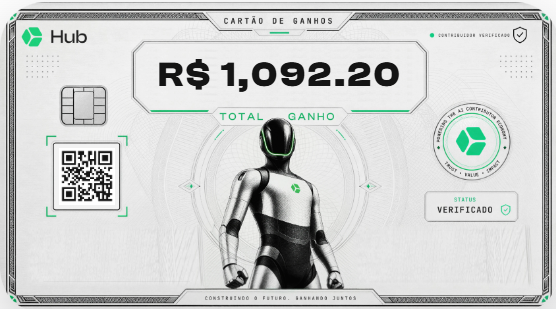
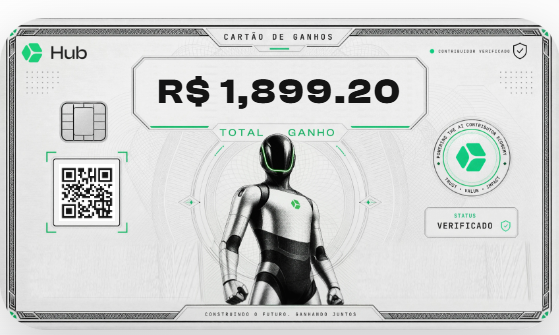
feat: links de referral no comparativo e cartao de ganhos novo
Comparativo rapido:
- KGeN e Rwazi saem da tabela. Nao tinham card de review nem link de
  cadastro, entao a linha nao levava o leitor a lugar nenhum.
- O nome de cada plataforma passa a ser o link de referral, em nova
  aba com rel="noopener sponsored", no lugar da ancora para o card.
  Nomes ganham sublinhado para ler como link.
- Subtitulo e CSS das linhas removidas atualizados.
- Regra 6 citava KGeN, que nao existe mais no site; agora aponta para
  Crowtado, Flambra e Mimix AI.

Cartao de ganhos do hero trocado por um de R$ 1.899,20. As dimensoes
no HTML passam de 553x311 para 559x335, as reais do arquivo novo, para
o navegador reservar a caixa certa e nao dar salto no carregamento. Alt
text atualizado nos tres idiomas.

Claude-Session: https://claude.ai/code/session_01HpaRY2sD6kgKNVgTbhFd8V

diff --git a/es/index.html b/es/index.html
@@ -256,7 +256,7 @@
 
         <div class="hero-right">
           <figure class="hero-proof">
-            <img src="/images/cartao-ganhos.png" width="553" height="311" alt="Tarjeta de ganancias de Hub que muestra R$ 1.092,20 de total ganado con estado verificado" loading="eager" decoding="async">
+            <img src="/images/cartao-ganhos.png" width="559" height="335" alt="Tarjeta de ganancias de Hub que muestra R$ 1.899,20 de total ganado con estado verificado" loading="eager" decoding="async">
             <figcaption>Tarjeta de ganancias de un colaborador verificado de Hub.</figcaption>
           </figure>
           <div class="hero-card">
@@ -356,13 +356,13 @@
       <div class="cmp-card">
         <div class="cmp-head">
           <div class="cmp-title">Comparativo rápido</div>
-          <p class="cmp-sub">Cinco plataformas con review completo aquí abajo, más dos listadas solo para comparar.</p>
+          <p class="cmp-sub">Las cinco plataformas del sitio, una al lado de la otra. Haz clic en el nombre para registrarte — el review completo de cada una está justo abajo.</p>
         </div>
         <table class="cmp-table">
           <thead><tr><th>Plataforma</th><th>Pago</th><th>Retiro mín.</th><th>Revisión</th><th>Tipo</th><th>Enfoque</th></tr></thead>
           <tbody>
             <tr class="is-top">
-              <th scope="row" data-lbl="Plataforma"><a href="#plat-claru">Claru AI</a><span class="cmp-pill">MÁS RENTABLE</span></th>
+              <th scope="row" data-lbl="Plataforma"><a href="https://app.claru.ai/signup?ref=tebtn9za" target="_blank" rel="noopener sponsored">Claru AI</a><span class="cmp-pill">MÁS RENTABLE</span></th>
               <td data-lbl="Pago">$6/h + bonos</td>
               <td data-lbl="Retiro mín.">$50</td>
               <td data-lbl="Revisión">48h</td>
@@ -370,7 +370,7 @@
               <td data-lbl="Enfoque">Global (LATAM)</td>
             </tr>
             <tr>
-              <th scope="row" data-lbl="Plataforma"><a href="#plat-hub">Hub</a></th>
+              <th scope="row" data-lbl="Plataforma"><a href="https://ai.hub.xyz/r/RG4WW24V" target="_blank" rel="noopener sponsored">Hub</a></th>
               <td data-lbl="Pago">$5–6/h + bonos</td>
               <td data-lbl="Retiro mín.">≈ $5</td>
               <td data-lbl="Revisión">1 a 2 días</td>
@@ -378,7 +378,7 @@
               <td data-lbl="Enfoque">Global</td>
             </tr>
             <tr>
-              <th scope="row" data-lbl="Plataforma"><a href="#plat-crowtado">Crowtado</a></th>
+              <th scope="row" data-lbl="Plataforma"><a href="https://www.crowtado.com/sign-up?ref=33HYXCME" target="_blank" rel="noopener sponsored">Crowtado</a></th>
               <td data-lbl="Pago">Hasta $6,50/h</td>
               <td data-lbl="Retiro mín.">$10</td>
               <td data-lbl="Revisión">Por horas</td>
@@ -386,7 +386,7 @@
               <td data-lbl="Enfoque">42 países</td>
             </tr>
             <tr>
-              <th scope="row" data-lbl="Plataforma"><a href="#plat-flambra">Flambra</a></th>
+              <th scope="row" data-lbl="Plataforma"><a href="https://app.flambra.com/?ref=0C173A0A7A" target="_blank" rel="noopener sponsored">Flambra</a></th>
               <td data-lbl="Pago">$5/h</td>
               <td data-lbl="Retiro mín.">Varía</td>
               <td data-lbl="Revisión">Varía</td>
@@ -394,28 +394,12 @@
               <td data-lbl="Enfoque">Brasil y LATAM</td>
             </tr>
             <tr>
-              <th scope="row" data-lbl="Plataforma"><a href="#plat-mimix">Mimix AI</a></th>
+              <th scope="row" data-lbl="Plataforma"><a href="https://mimix-ai.xyz/register?ref=MIMIX61641A042288493C" target="_blank" rel="noopener sponsored">Mimix AI</a></th>
               <td data-lbl="Pago">$5/h + bonos</td>
               <td data-lbl="Retiro mín.">En USDT</td>
               <td data-lbl="Revisión">Varía</td>
               <td data-lbl="Tipo">POV y Web3</td>
               <td data-lbl="Enfoque">Global (USDT)</td>
-            </tr>
-            <tr class="is-muted">
-              <th scope="row" data-lbl="Plataforma">KGeN<span class="cmp-pill pill-off">sin review</span></th>
-              <td data-lbl="Pago">$4/h</td>
-              <td data-lbl="Retiro mín.">Varía</td>
-              <td data-lbl="Revisión">Varía</td>
-              <td data-lbl="Tipo">POV y datos</td>
-              <td data-lbl="Enfoque">60+ países</td>
-            </tr>
-            <tr class="is-muted">
-              <th scope="row" data-lbl="Plataforma">Rwazi<span class="cmp-pill pill-off">sin review</span></th>
-              <td data-lbl="Pago">$5/h</td>
-              <td data-lbl="Retiro mín.">4 horas</td>
-              <td data-lbl="Revisión">Varía</td>
-              <td data-lbl="Tipo">Fotos, videos y datos</td>
-              <td data-lbl="Enfoque">190+ países</td>
             </tr>
           </tbody>
         </table>
@@ -1101,7 +1085,7 @@
         <li class="rule">
           <div class="rule-num">5</div>
           <div class="rule-title">Diversificación inteligente</div>
-          <p class="rule-body">¿Una plataforma sin tareas disponibles? Salta de inmediato a otra — Crowtado, KGeN, Flambra. Esperar a que aparezca una tarea es tiempo que no se convierte en dinero.</p>
+          <p class="rule-body">¿Una plataforma sin tareas disponibles? Salta de inmediato a otra — Crowtado, Flambra, Mimix AI. Esperar a que aparezca una tarea es tiempo que no se convierte en dinero.</p>
         </li>
         <li class="rule">
           <div class="rule-num">6</div>

diff --git a/index.html b/index.html
@@ -266,7 +266,7 @@
 
         <div class="hero-right">
           <figure class="hero-proof">
-            <img src="/images/cartao-ganhos.png" width="553" height="311" alt="Cartão de ganhos da Hub mostrando R$ 1.092,20 de total ganho com status verificado" loading="eager" decoding="async">
+            <img src="/images/cartao-ganhos.png" width="559" height="335" alt="Cartão de ganhos da Hub mostrando R$ 1.899,20 de total ganho com status verificado" loading="eager" decoding="async">
             <figcaption>Cartão de ganhos de um colaborador verificado da Hub.</figcaption>
           </figure>
           <div class="hero-card">
@@ -366,13 +366,13 @@
       <div class="cmp-card">
         <div class="cmp-head">
           <div class="cmp-title">Comparativo rápido</div>
-          <p class="cmp-sub">Cinco plataformas com review completo aqui embaixo, mais duas listadas só para comparação.</p>
+          <p class="cmp-sub">As cinco plataformas do site, lado a lado. Clique no nome para se cadastrar — o review completo de cada uma está logo abaixo.</p>
         </div>
         <table class="cmp-table">
           <thead><tr><th>Plataforma</th><th>Pagamento</th><th>Saque mín.</th><th>Revisão</th><th>Tipo</th><th>Foco</th></tr></thead>
           <tbody>
             <tr class="is-top">
-              <th scope="row" data-lbl="Plataforma"><a href="#plat-claru">Claru AI</a><span class="cmp-pill">MAIS COMPENSATIVA</span></th>
+              <th scope="row" data-lbl="Plataforma"><a href="https://app.claru.ai/signup?ref=tebtn9za" target="_blank" rel="noopener sponsored">Claru AI</a><span class="cmp-pill">MAIS COMPENSATIVA</span></th>
               <td data-lbl="Pagamento">$6/h + bônus</td>
               <td data-lbl="Saque mín.">$50</td>
               <td data-lbl="Revisão">48h</td>
@@ -380,7 +380,7 @@
               <td data-lbl="Foco">Global (LATAM)</td>
             </tr>
             <tr>
-              <th scope="row" data-lbl="Plataforma"><a href="#plat-hub">Hub</a></th>
+              <th scope="row" data-lbl="Plataforma"><a href="https://ai.hub.xyz/r/RG4WW24V" target="_blank" rel="noopener sponsored">Hub</a></th>
               <td data-lbl="Pagamento">$5–6/h + bônus</td>
               <td data-lbl="Saque mín.">R$ 25</td>
               <td data-lbl="Revisão">1 a 2 dias</td>
@@ -388,7 +388,7 @@
               <td data-lbl="Foco">Global</td>
             </tr>
             <tr>
-              <th scope="row" data-lbl="Plataforma"><a href="#plat-crowtado">Crowtado</a></th>
+              <th scope="row" data-lbl="Plataforma"><a href="https://www.crowtado.com/sign-up?ref=33HYXCME" target="_blank" rel="noopener sponsored">Crowtado</a></th>
               <td data-lbl="Pagamento">Até $6,50/h</td>
               <td data-lbl="Saque mín.">$10</td>
               <td data-lbl="Revisão">Por horas</td>
@@ -396,7 +396,7 @@
               <td data-lbl="Foco">42 países</td>
             </tr>
             <tr>
-              <th scope="row" data-lbl="Plataforma"><a href="#plat-flambra">Flambra</a></th>
+              <th scope="row" data-lbl="Plataforma"><a href="https://app.flambra.com/?ref=0C173A0A7A" target="_blank" rel="noopener sponsored">Flambra</a></th>
               <td data-lbl="Pagamento">$5/h</td>
               <td data-lbl="Saque mín.">Varia</td>
               <td data-lbl="Revisão">Varia</td>
@@ -404,28 +404,12 @@
               <td data-lbl="Foco">Brasil e LATAM</td>
             </tr>
             <tr>
-              <th scope="row" data-lbl="Plataforma"><a href="#plat-mimix">Mimix AI</a></th>
+              <th scope="row" data-lbl="Plataforma"><a href="https://mimix-ai.xyz/register?ref=MIMIX61641A042288493C" target="_blank" rel="noopener sponsored">Mimix AI</a></th>
               <td data-lbl="Pagamento">$5/h + bônus</td>
               <td data-lbl="Saque mín.">Em USDT</td>
               <td data-lbl="Revisão">Varia</td>
               <td data-lbl="Tipo">POV e Web3</td>
               <td data-lbl="Foco">Global (USDT)</td>
-            </tr>
-            <tr class="is-muted">
-              <th scope="row" data-lbl="Plataforma">KGeN<span class="cmp-pill pill-off">sem review</span></th>
-              <td data-lbl="Pagamento">$4/h</td>
-              <td data-lbl="Saque mín.">Varia</td>
-              <td data-lbl="Revisão">Varia</td>
-              <td data-lbl="Tipo">POV e dados</td>
-              <td data-lbl="Foco">60+ países</td>
-            </tr>
-            <tr class="is-muted">
-              <th scope="row" data-lbl="Plataforma">Rwazi<span class="cmp-pill pill-off">sem review</span></th>
-              <td data-lbl="Pagamento">$5/h</td>
-              <td data-lbl="Saque mín.">4 horas</td>
-              <td data-lbl="Revisão">Varia</td>
-              <td data-lbl="Tipo">Fotos, vídeos e dados</td>
-              <td data-lbl="Foco">190+ países</td>
             </tr>
           </tbody>
         </table>
@@ -1111,7 +1095,7 @@
         <li class="rule">
           <div class="rule-num">5</div>
           <div class="rule-title">Diversificação inteligente</div>
-          <p class="rule-body">Plataforma sem tarefa disponível? Pule na hora para outra — Crowtado, KGeN, Flambra. Ficar esperando tarefa aparecer é tempo que não vira dinheiro.</p>
+          <p class="rule-body">Plataforma sem tarefa disponível? Pule na hora para outra — Crowtado, Flambra, Mimix AI. Ficar esperando tarefa aparecer é tempo que não vira dinheiro.</p>
         </li>
         <li class="rule">
           <div class="rule-num">6</div>

diff --git a/en/index.html b/en/index.html
@@ -255,7 +255,7 @@
 
         <div class="hero-right">
           <figure class="hero-proof">
-            <img src="/images/cartao-ganhos.png" width="553" height="311" alt="Hub earnings card showing R$ 1,092.20 total earned with verified status" loading="eager" decoding="async">
+            <img src="/images/cartao-ganhos.png" width="559" height="335" alt="Hub earnings card showing R$ 1,899.20 total earned with verified status" loading="eager" decoding="async">
             <figcaption>Earnings card from a verified Hub contributor.</figcaption>
           </figure>
           <div class="hero-card">
@@ -355,13 +355,13 @@
       <div class="cmp-card">
         <div class="cmp-head">
           <div class="cmp-title">Quick comparison</div>
-          <p class="cmp-sub">Five platforms with a full review below, plus two listed for comparison only.</p>
+          <p class="cmp-sub">The five platforms on this site, side by side. Click a name to sign up — the full review of each one is right below.</p>
         </div>
         <table class="cmp-table">
           <thead><tr><th>Platform</th><th>Pay</th><th>Min. payout</th><th>Review</th><th>Type</th><th>Focus</th></tr></thead>
           <tbody>
             <tr class="is-top">
-              <th scope="row" data-lbl="Platform"><a href="#plat-claru">Claru AI</a><span class="cmp-pill">BEST EFFECTIVE RATE</span></th>
+              <th scope="row" data-lbl="Platform"><a href="https://app.claru.ai/signup?ref=tebtn9za" target="_blank" rel="noopener sponsored">Claru AI</a><span class="cmp-pill">BEST EFFECTIVE RATE</span></th>
               <td data-lbl="Pay">$6/hr + bonuses</td>
               <td data-lbl="Min. payout">$50</td>
               <td data-lbl="Review">48h</td>
@@ -369,7 +369,7 @@
               <td data-lbl="Focus">Global (LATAM)</td>
             </tr>
             <tr>
-              <th scope="row" data-lbl="Platform"><a href="#plat-hub">Hub</a></th>
+              <th scope="row" data-lbl="Platform"><a href="https://ai.hub.xyz/r/RG4WW24V" target="_blank" rel="noopener sponsored">Hub</a></th>
               <td data-lbl="Pay">$5–6/hr + bonuses</td>
               <td data-lbl="Min. payout">≈ $5</td>
               <td data-lbl="Review">1 to 2 days</td>
@@ -377,7 +377,7 @@
               <td data-lbl="Focus">Global</td>
             </tr>
             <tr>
-              <th scope="row" data-lbl="Platform"><a href="#plat-crowtado">Crowtado</a></th>
+              <th scope="row" data-lbl="Platform"><a href="https://www.crowtado.com/sign-up?ref=33HYXCME" target="_blank" rel="noopener sponsored">Crowtado</a></th>
               <td data-lbl="Pay">Up to $6.50/hr</td>
               <td data-lbl="Min. payout">$10</td>
               <td data-lbl="Review">Per hour</td>
@@ -385,7 +385,7 @@
               <td data-lbl="Focus">42 countries</td>
             </tr>
             <tr>
-              <th scope="row" data-lbl="Platform"><a href="#plat-flambra">Flambra</a></th>
+              <th scope="row" data-lbl="Platform"><a href="https://app.flambra.com/?ref=0C173A0A7A" target="_blank" rel="noopener sponsored">Flambra</a></th>
               <td data-lbl="Pay">$5/hr</td>
               <td data-lbl="Min. payout">Varies</td>
               <td data-lbl="Review">Varies</td>
@@ -393,28 +393,12 @@
               <td data-lbl="Focus">Brazil and LATAM</td>
             </tr>
             <tr>
-              <th scope="row" data-lbl="Platform"><a href="#plat-mimix">Mimix AI</a></th>
+              <th scope="row" data-lbl="Platform"><a href="https://mimix-ai.xyz/register?ref=MIMIX61641A042288493C" target="_blank" rel="noopener sponsored">Mimix AI</a></th>
               <td data-lbl="Pay">$5/hr + bonuses</td>
               <td data-lbl="Min. payout">In USDT</td>
               <td data-lbl="Review">Varies</td>
               <td data-lbl="Type">POV and Web3</td>
               <td data-lbl="Focus">Global (USDT)</td>
-            </tr>
-            <tr class="is-muted">
-              <th scope="row" data-lbl="Platform">KGeN<span class="cmp-pill pill-off">no review</span></th>
-              <td data-lbl="Pay">$4/hr</td>
-              <td data-lbl="Min. payout">Varies</td>
-              <td data-lbl="Review">Varies</td>
-              <td data-lbl="Type">POV and data</td>
-              <td data-lbl="Focus">60+ countries</td>
-            </tr>
-            <tr class="is-muted">
-              <th scope="row" data-lbl="Platform">Rwazi<span class="cmp-pill pill-off">no review</span></th>
-              <td data-lbl="Pay">$5/hr</td>
-              <td data-lbl="Min. payout">4 hours</td>
-              <td data-lbl="Review">Varies</td>
-              <td data-lbl="Type">Photos, video and data</td>
-              <td data-lbl="Focus">190+ countries</td>
             </tr>
           </tbody>
         </table>
@@ -1100,7 +1084,7 @@
         <li class="rule">
           <div class="rule-num">5</div>
           <div class="rule-title">Smart diversification</div>
-          <p class="rule-body">No tasks available on one platform? Jump straight to another — Crowtado, KGeN, Flambra. Waiting for a task to appear is time that never becomes money.</p>
+          <p class="rule-body">No tasks available on one platform? Jump straight to another — Crowtado, Flambra, Mimix AI. Waiting for a task to appear is time that never becomes money.</p>
         </li>
         <li class="rule">
           <div class="rule-num">6</div>

diff --git a/styles.css b/styles.css
@@ -299,18 +299,15 @@ section.chapter{padding:72px 0;border-top:1px solid var(--line)}
 .cmp-table tbody td{color:var(--body)}
 .cmp-table tbody td:first-of-type{font-family:'JetBrains Mono',monospace;font-weight:600;color:var(--ink)}
 .cmp-table tbody tr+tr th,.cmp-table tbody tr+tr td{border-top:1px solid var(--line)}
-.cmp-table a{color:inherit;text-decoration:none}
-.cmp-table a:hover{color:var(--accent)}
+.cmp-table a{color:inherit;text-decoration:none;border-bottom:1.5px solid var(--line)}
+.cmp-table a:hover{color:var(--accent);border-bottom-color:var(--accent)}
 .cmp-table tr.is-top{background:var(--accent-soft)}
 .cmp-table tr.is-top td:first-of-type{color:var(--accent)}
-.cmp-table tr.is-muted th,.cmp-table tr.is-muted td{color:var(--neutral-ink)}
-.cmp-table tr.is-muted td:first-of-type{color:var(--neutral-ink)}
 .cmp-pill{
   display:block;width:fit-content;margin-top:5px;font-family:'Inter',sans-serif;
   font-size:10px;font-weight:700;letter-spacing:.05em;padding:2px 7px;
   border-radius:999px;background:var(--accent);color:#fff;
 }
-.cmp-pill.pill-off{background:var(--neutral-soft);color:var(--neutral-ink)}
 
 @media (max-width:760px){
   .cmp-table,.cmp-table tbody,.cmp-table tr,.cmp-table th,.cmp-table td{display:block}
